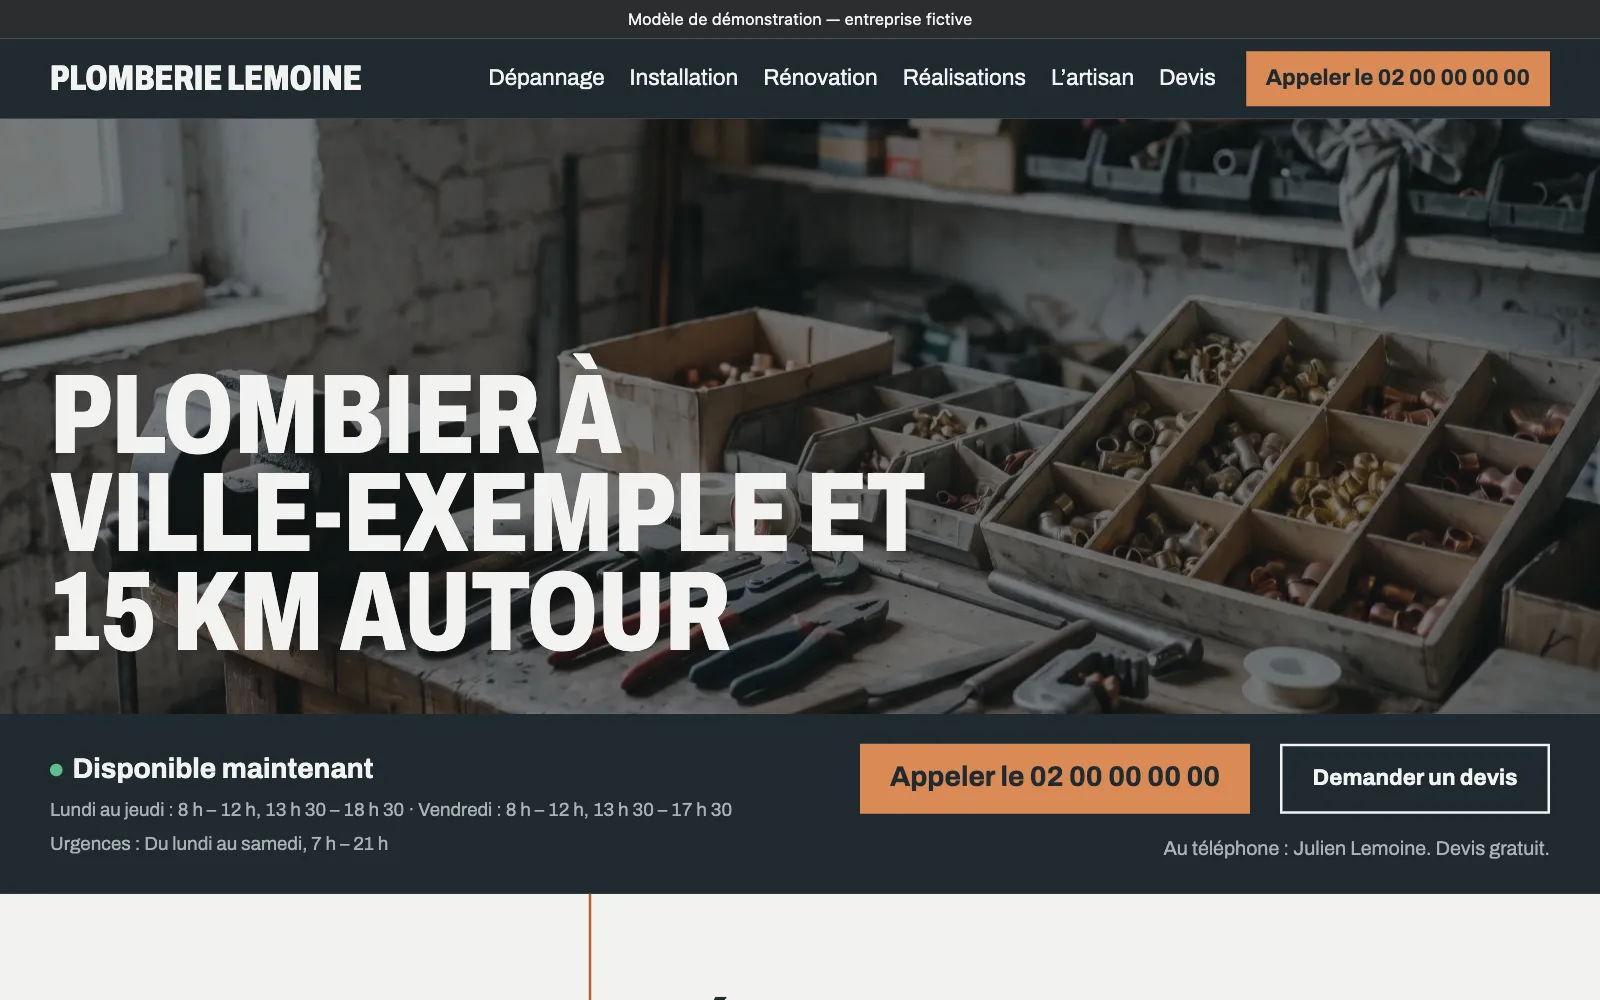
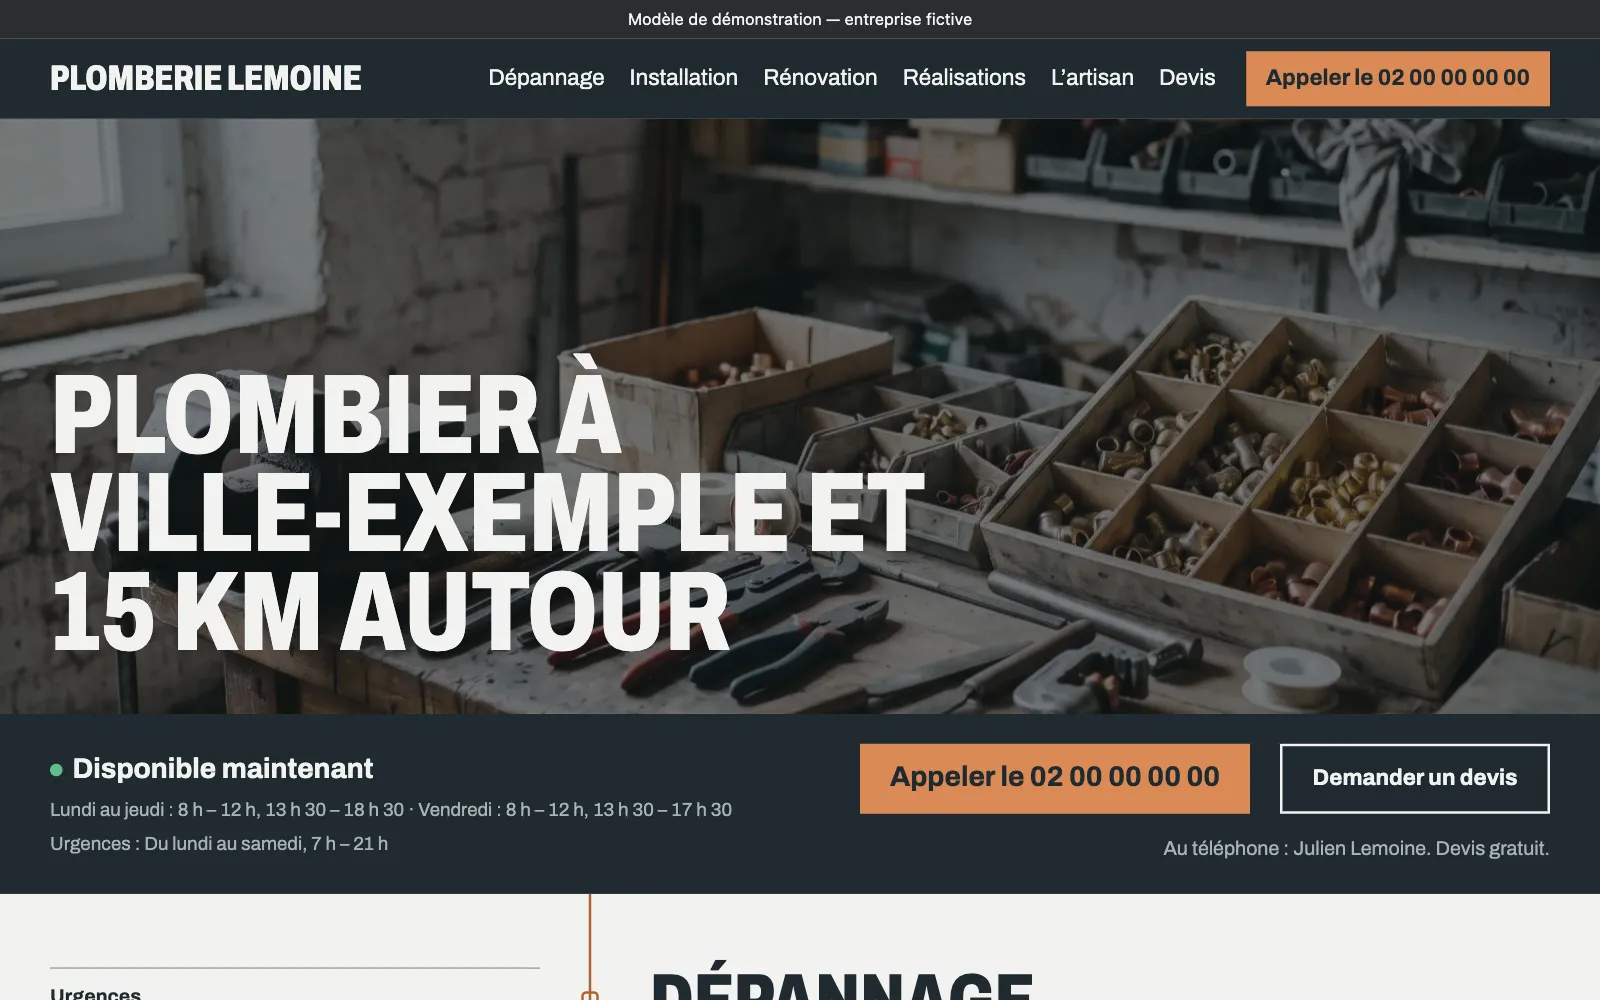
améliorations maquettes

Changed region(s): [[0.4062, 0.961, 0.6562, 1.0], [0.0312, 0.992, 0.0938, 1.0], [0.3438, 0.992, 0.375, 1.0]]

diff --git a/src/lib/schema.ts b/src/lib/schema.ts
@@ -78,6 +78,8 @@ export const siteSchema = z.looseObject({
         intro: z.string().optional(),
         /** Premium : déroulé d'une intervention, étape par étape. */
         deroule: z.array(texte).optional(),
+        /** Premium : clé d'une image posée en face du déroulé (colonne de gauche). */
+        imageDeroule: z.string().optional(),
       }),
     )
     .optional()
